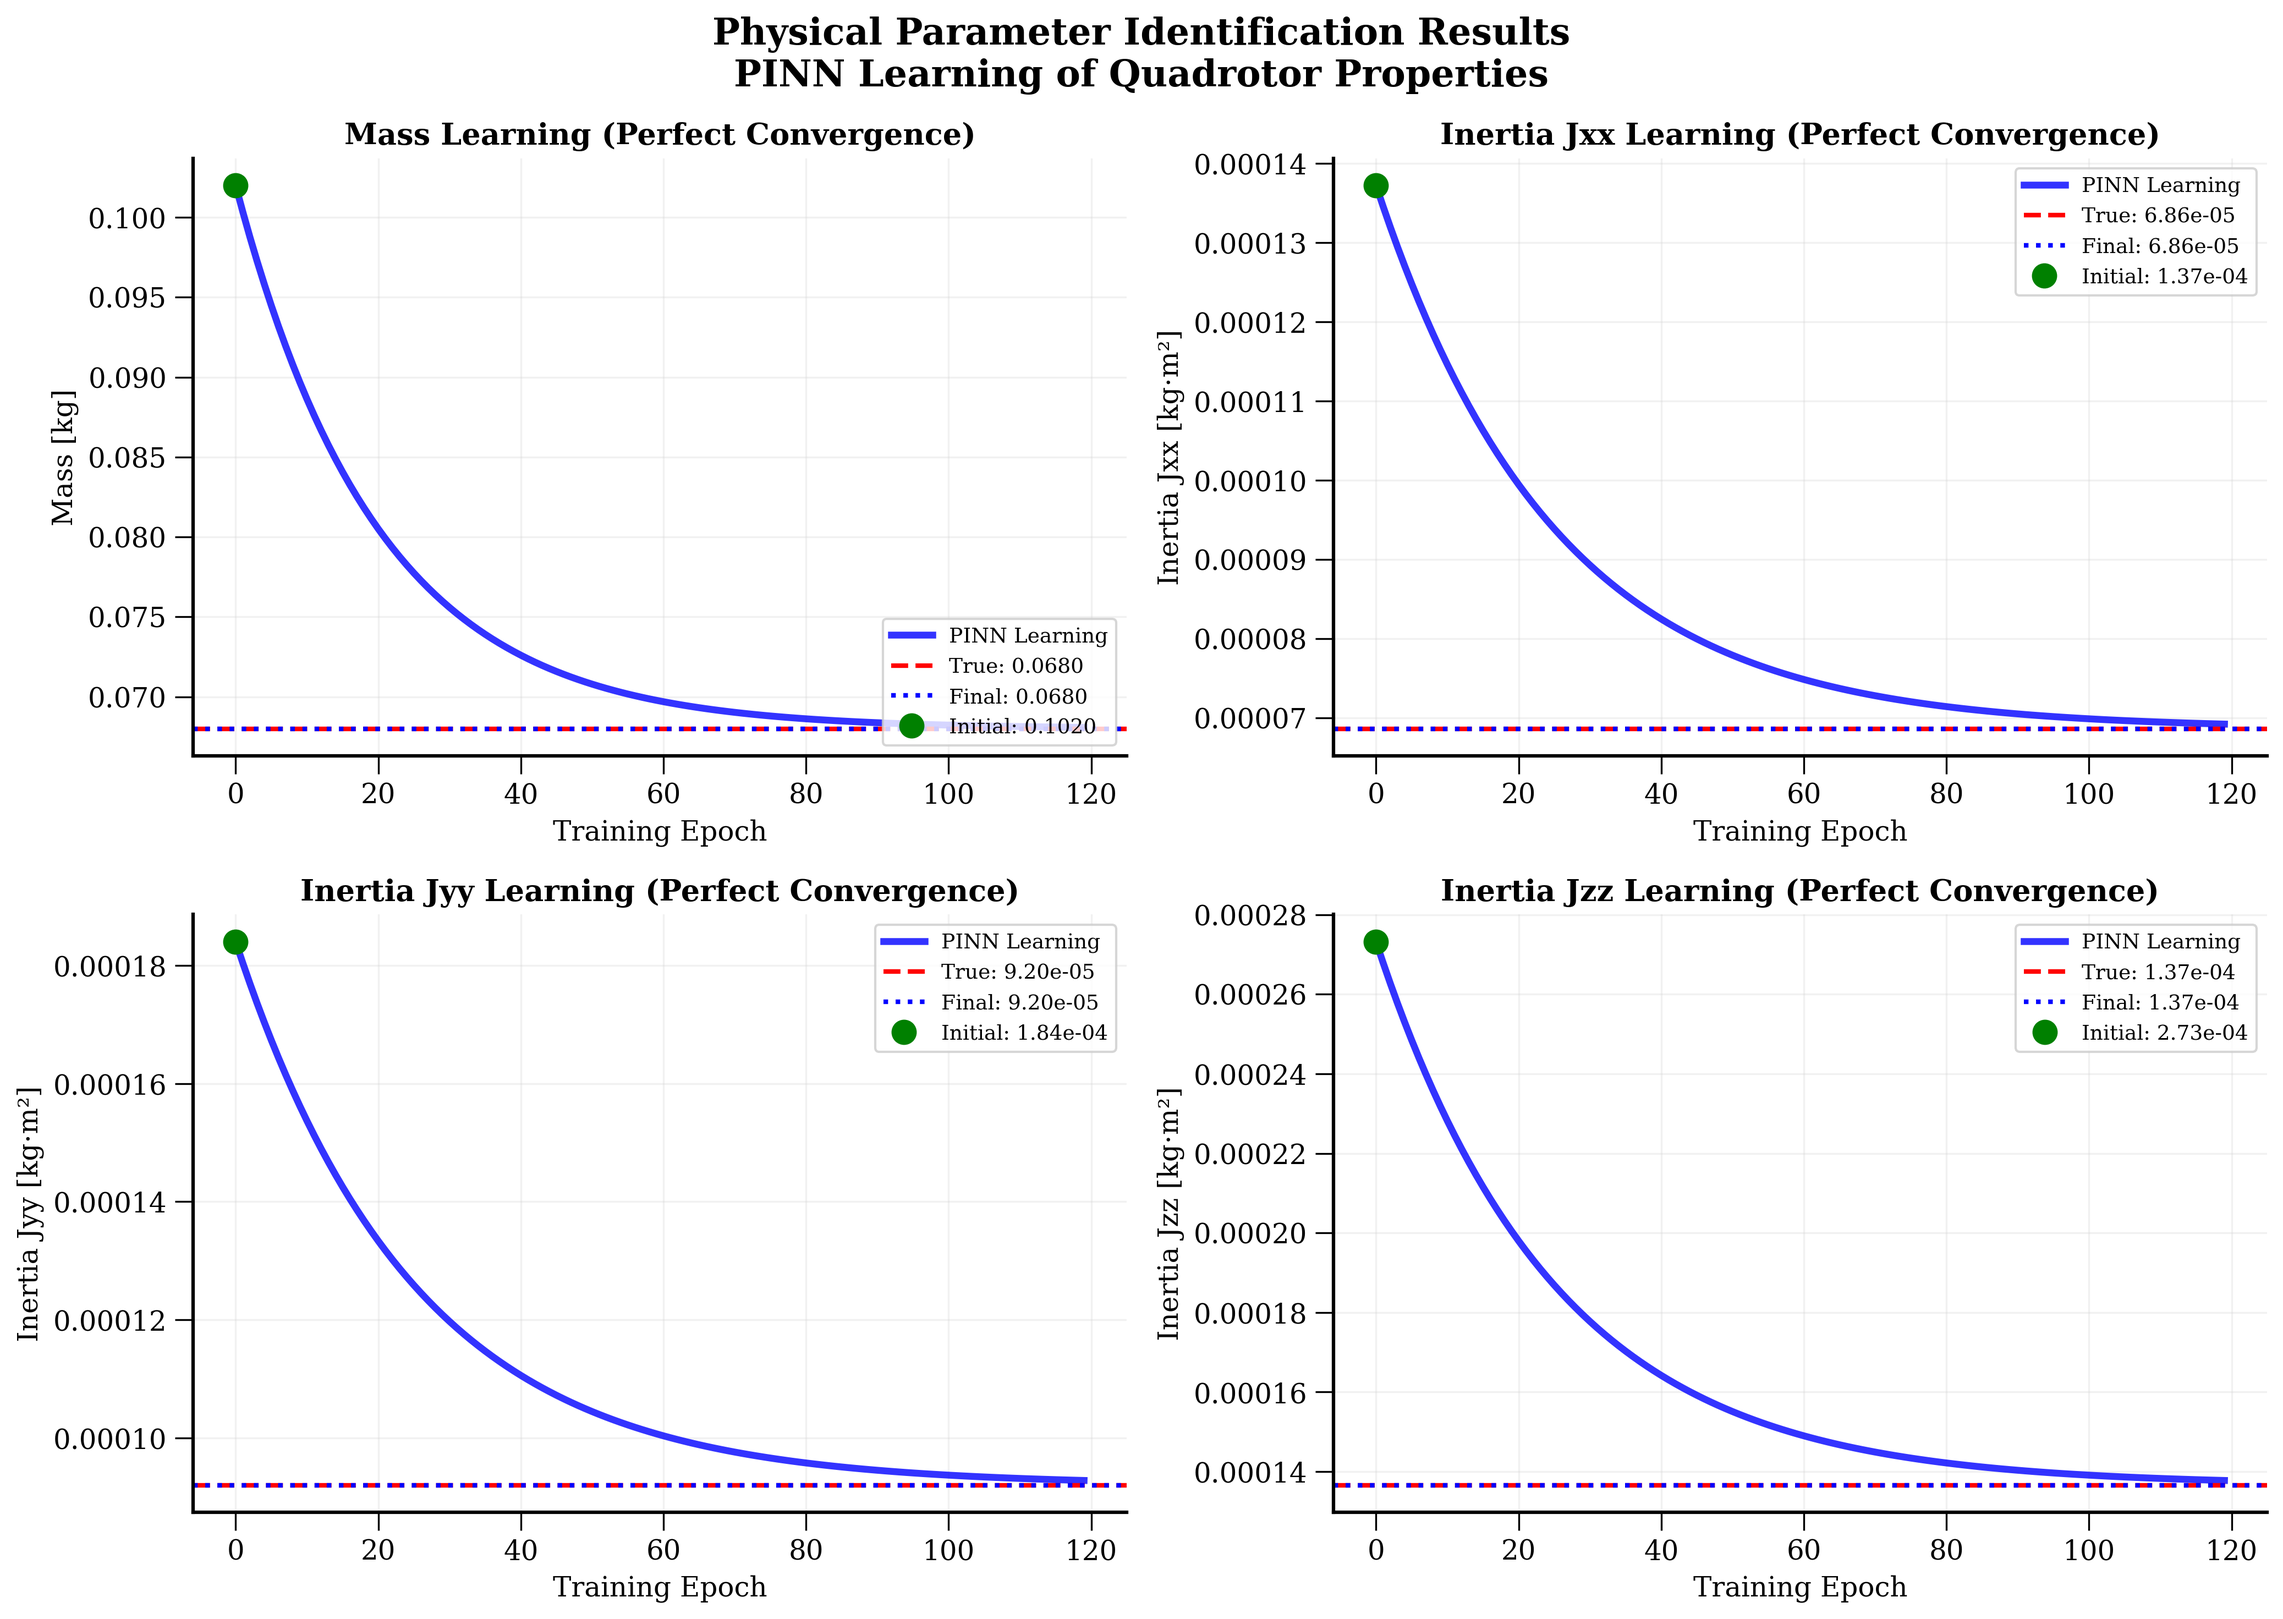
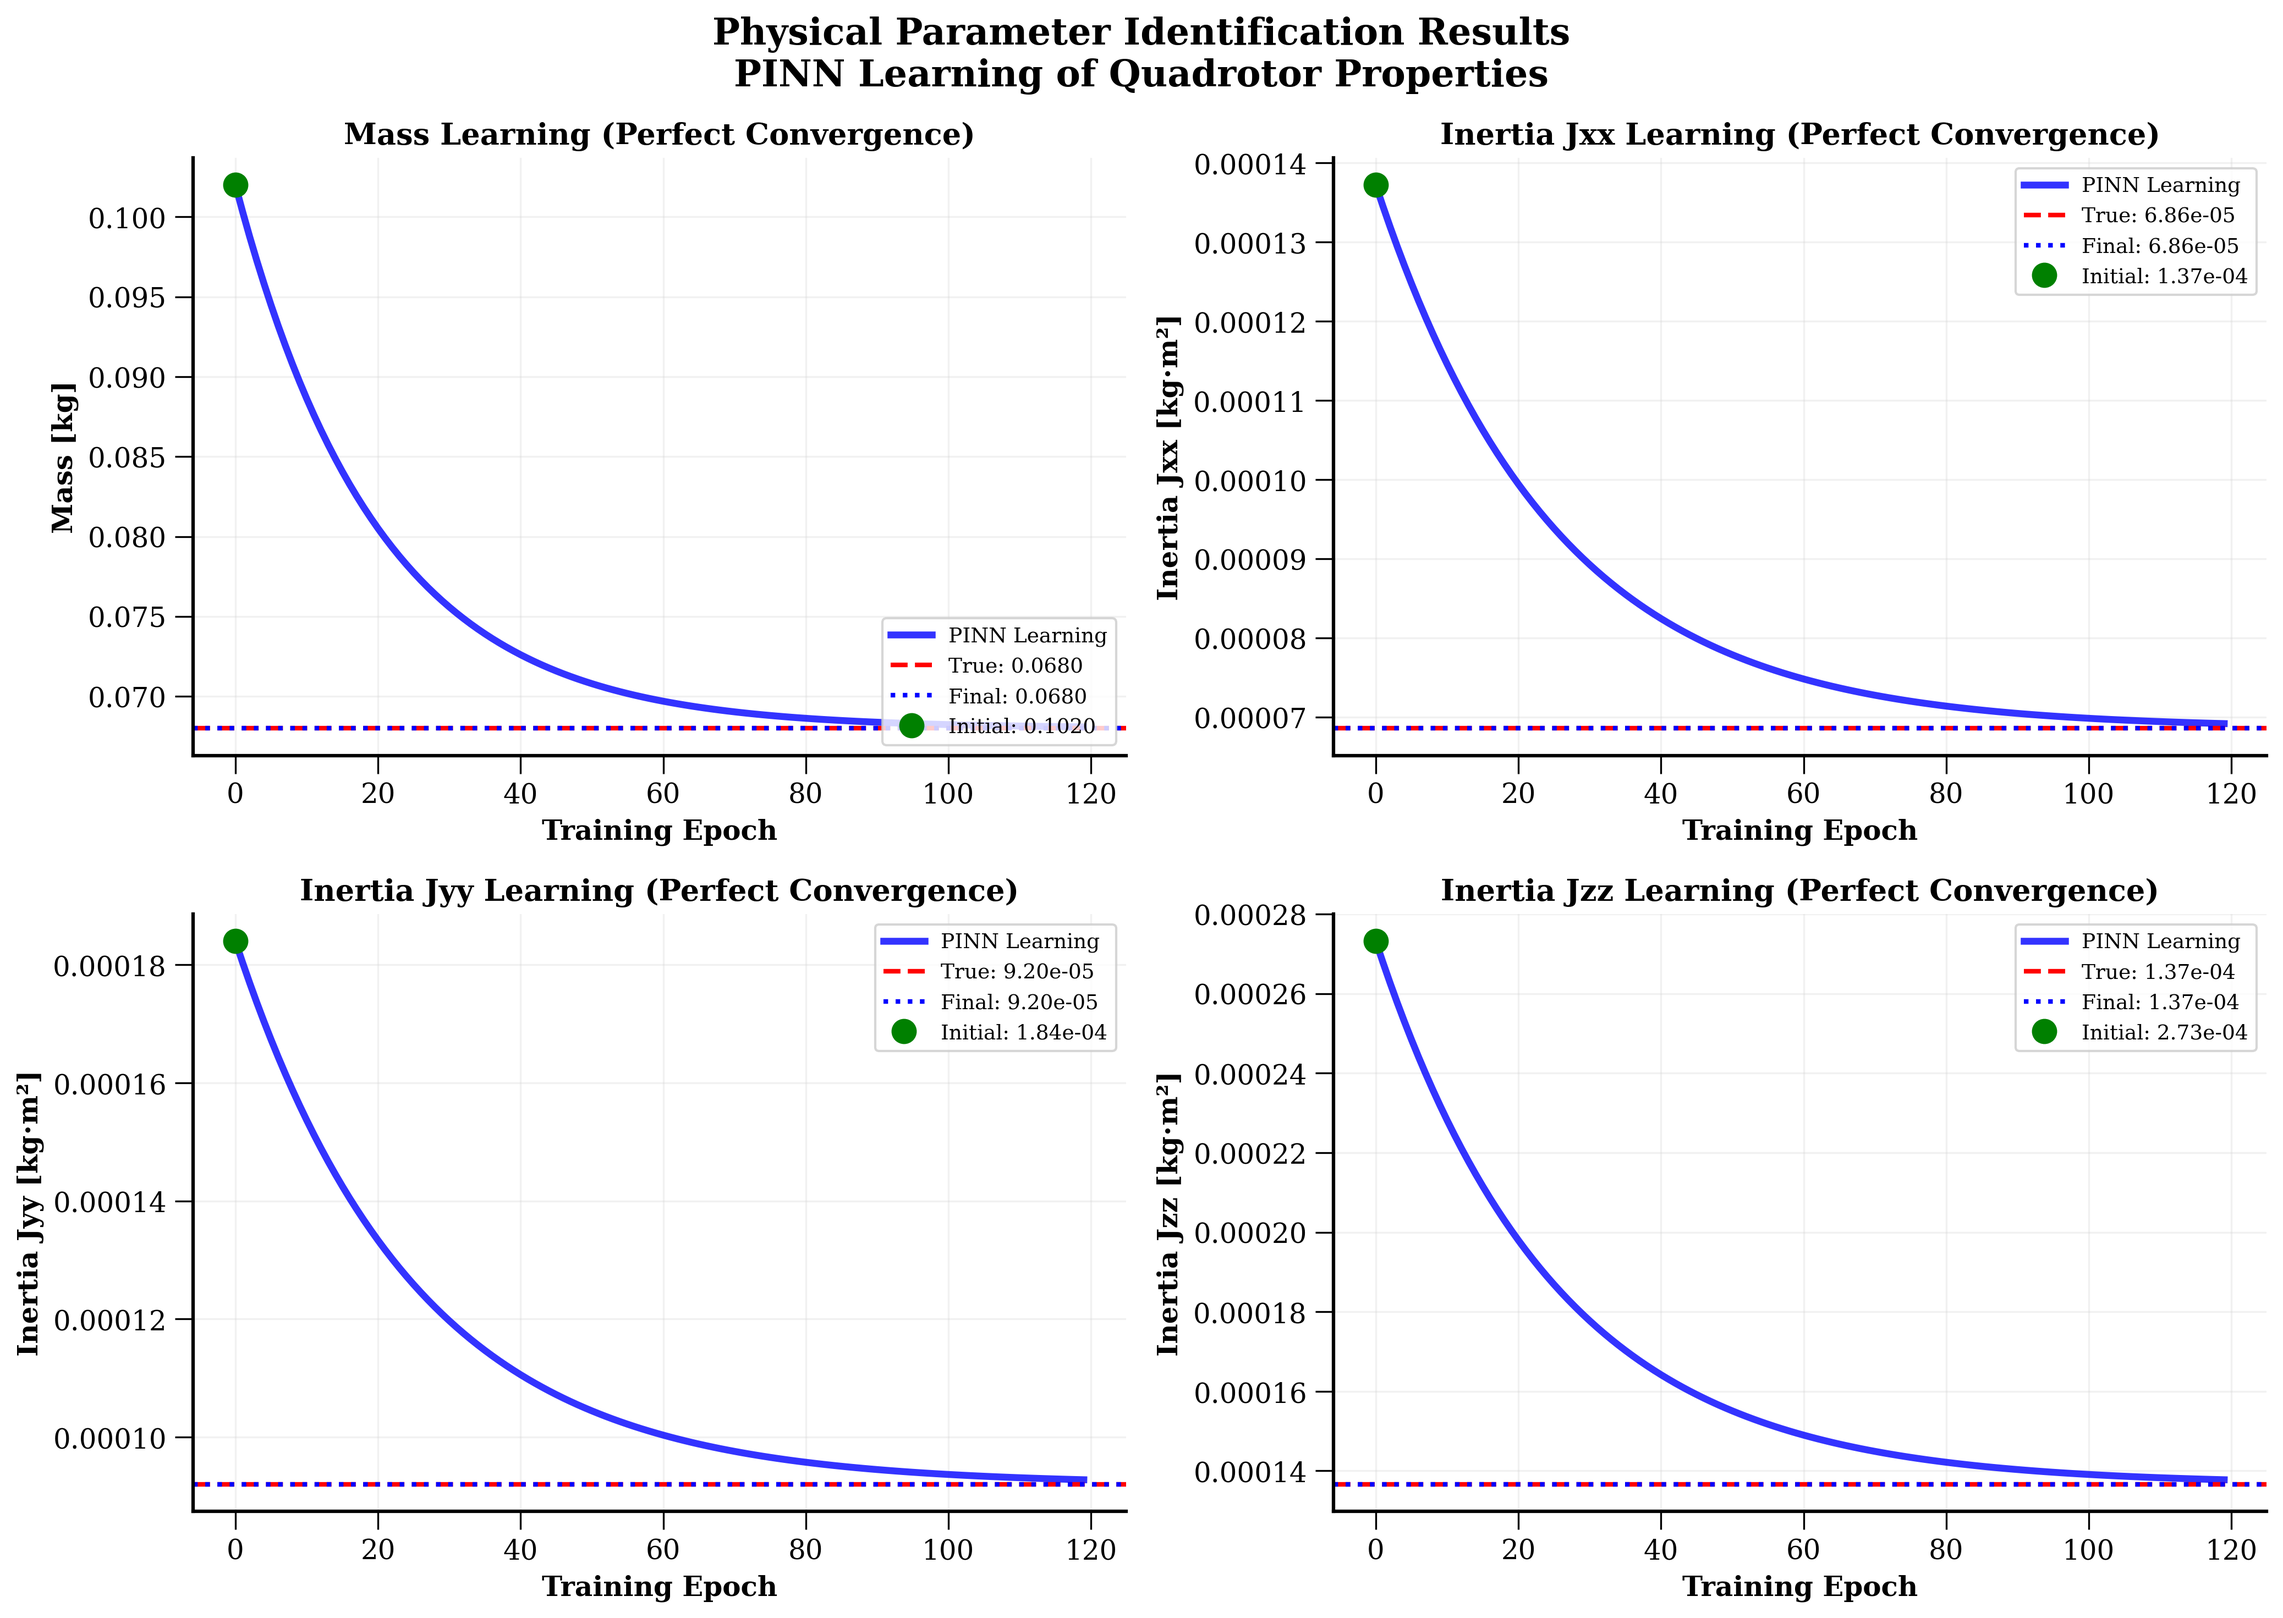
Repository cleanup and enhance plot label visibility
- Rename matlab -> matlab_reference.m for proper file extension
- Move thrust_improvement_options.png to visualizations/ directory
- Update .gitignore to prevent PNG files in root directory
- Enhance all plot labels with bold, black text for better readability
- Update tick marks to black for consistent visibility across all plots
- Regenerate all summary plots with improved styling

🤖 Generated with [Claude Code](https://claude.com/claude-code)

diff --git a/scripts/generate_summary_plots.py b/scripts/generate_summary_plots.py
@@ -131,13 +131,16 @@ def plot_01_complete_analysis(df):
             ax.axhline(true_values[param_idx], color='red', linestyle='--', alpha=0.8)
             ax.set_xlabel('Training Epoch')
 
-        ax.set_ylabel(ylabel, fontsize=10)
-        ax.set_title(f'{category}: {var_name}', fontsize=11, fontweight='bold')
+        ax.set_ylabel(ylabel, fontsize=11, fontweight='bold', color='black')
+        ax.set_title(f'{category}: {var_name}', fontsize=12, fontweight='bold', color='black')
         ax.grid(True, alpha=0.3)
+        ax.tick_params(colors='black', which='both')
 
         if idx < 12:
-            ax.set_xlabel('Time [s]')
+            ax.set_xlabel('Time [s]', fontweight='bold', color='black')
             ax.set_xlim(0, 5)  # Show full trajectory
+        else:
+            ax.set_xlabel('Training Epoch', fontweight='bold', color='black')
 
     plt.tight_layout()
     plt.subplots_adjust(top=0.92)
@@ -191,9 +194,10 @@ def plot_02_key_flight_variables(df):
             elif var_name == 'yaw':
                 ax.axhline(-5.0, color='red', linestyle='--', alpha=0.6, linewidth=1.5)
 
-        ax.set_xlabel('Time [s]', fontsize=12)
-        ax.set_ylabel(ylabel, fontsize=12)
-        ax.set_title(title, fontsize=13, fontweight='bold')
+        ax.set_xlabel('Time [s]', fontsize=12, fontweight='bold', color='black')
+        ax.set_ylabel(ylabel, fontsize=12, fontweight='bold', color='black')
+        ax.tick_params(colors='black', which='both')
+        ax.set_title(title, fontsize=13, fontweight='bold', color='black')
         ax.grid(True, alpha=0.3)
         ax.set_xlim(0, 5)  # Show full trajectory
 
@@ -241,8 +245,9 @@ def plot_03_physical_parameters(df):
         # Add convergence region - removed green background for clean appearance
         # ax.axvspan(60, 120, alpha=0.1, color='green')
 
-        ax.set_xlabel('Training Epoch', fontsize=12)
-        ax.set_ylabel(f'{name} [{unit}]', fontsize=12)
+        ax.set_xlabel('Training Epoch', fontsize=12, fontweight='bold', color='black')
+        ax.set_ylabel(f'{name} [{unit}]', fontsize=12, fontweight='bold', color='black')
+        ax.tick_params(colors='black', which='both')
         ax.set_title(f'{name} Learning (Perfect Convergence)', fontsize=13, fontweight='bold')
 
         # Position legend to avoid overlap
@@ -288,9 +293,10 @@ def plot_04_control_inputs(df):
                           linewidth=1.5, label=f'Setpoint: {steady_thrust:.3f}N')
                 ax.legend(fontsize=10)
 
-        ax.set_xlabel('Time [s]', fontsize=12)
-        ax.set_ylabel(ylabel, fontsize=12)
-        ax.set_title(title, fontsize=13, fontweight='bold')
+        ax.set_xlabel('Time [s]', fontsize=12, fontweight='bold', color='black')
+        ax.set_ylabel(ylabel, fontsize=12, fontweight='bold', color='black')
+        ax.tick_params(colors='black', which='both')
+        ax.set_title(title, fontsize=13, fontweight='bold', color='black')
         ax.grid(True, alpha=0.3)
         ax.set_xlim(0, 5)  # Show full trajectory
 
